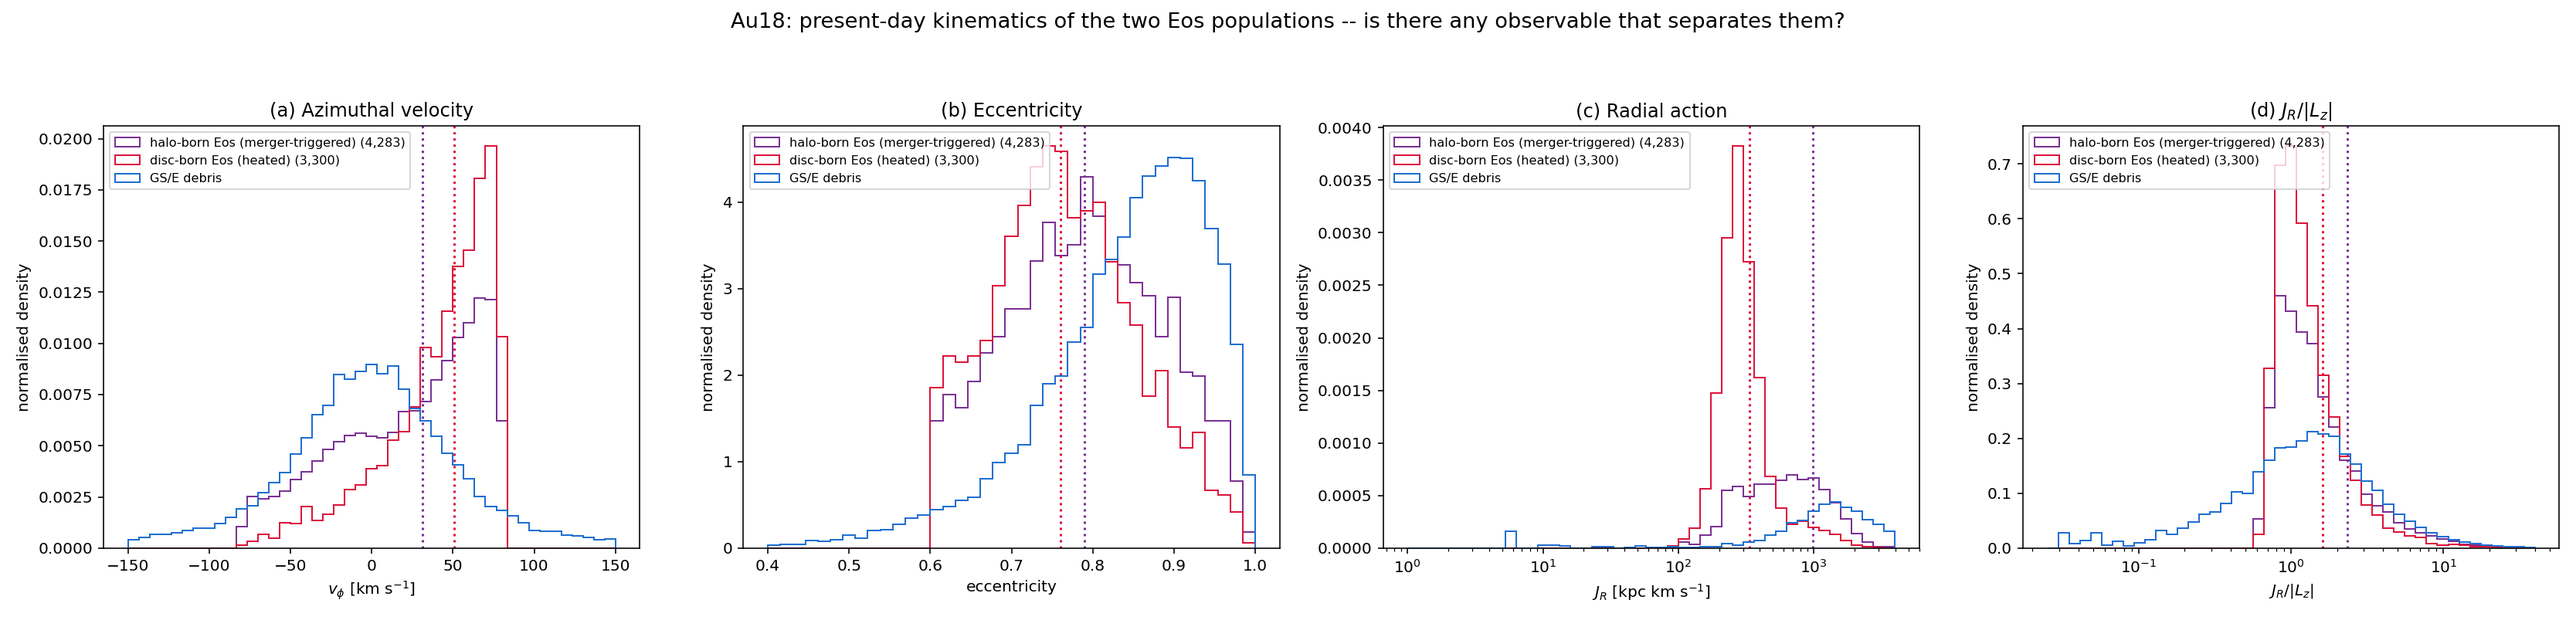
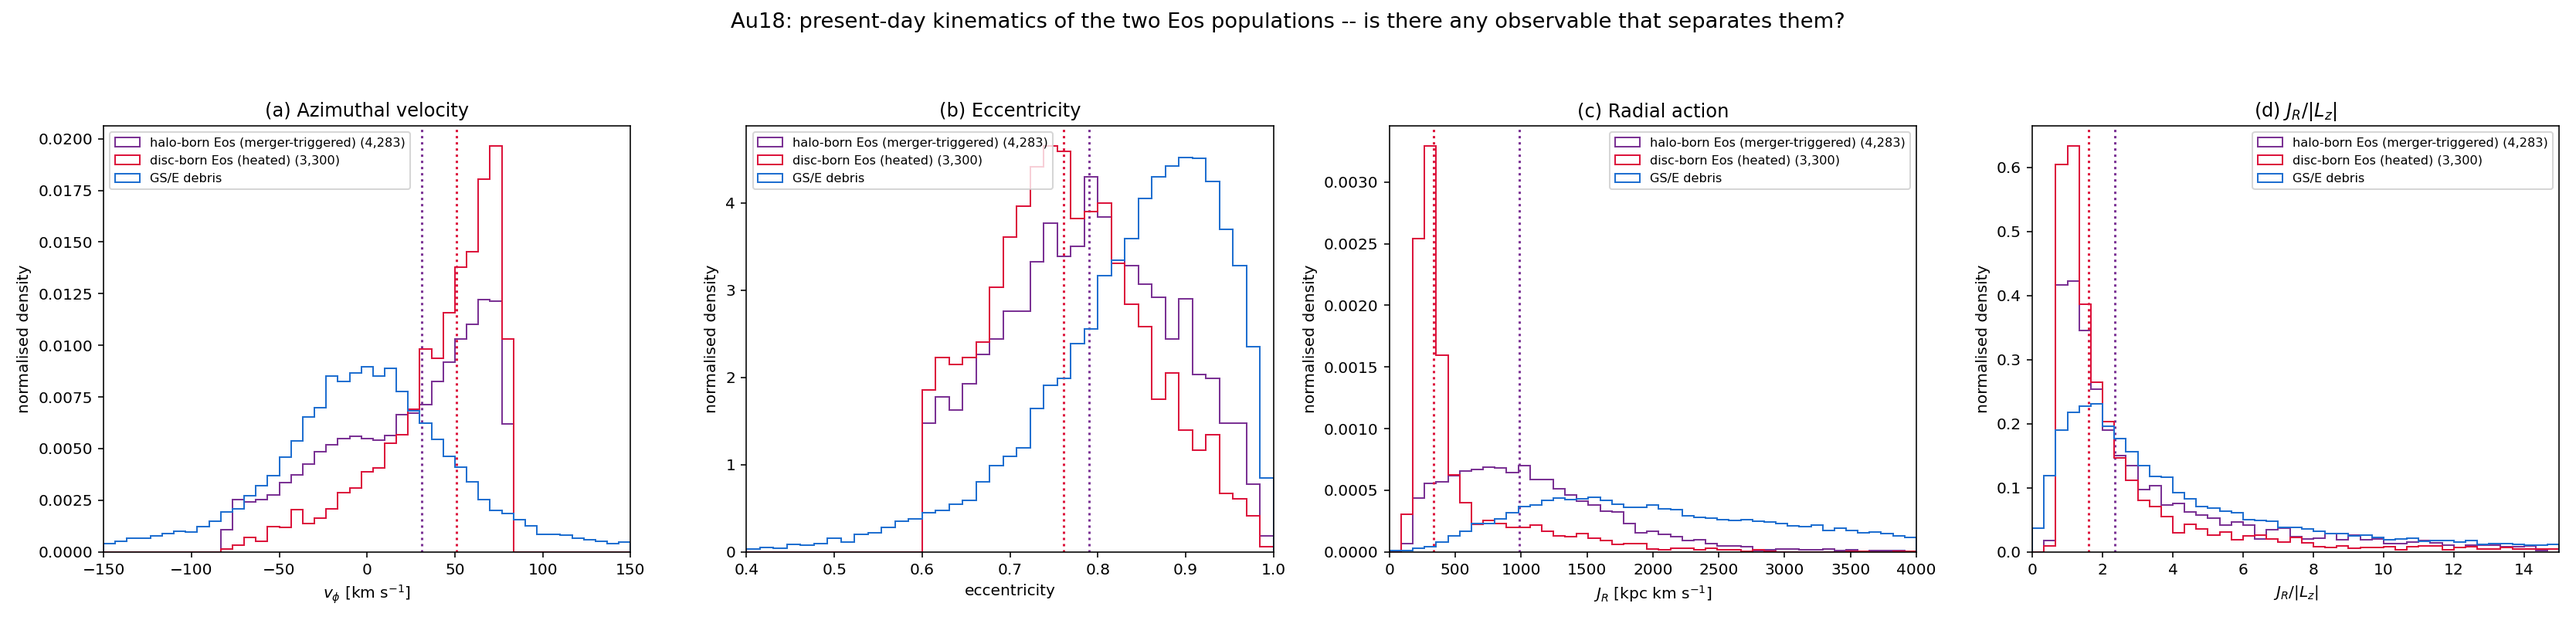
Draw the action panels on linear x-axes
J_R now spans 0-4000 kpc km/s and J_R/|L_z| spans 0-15, both linear. The script
reports what each axis cuts off, since both quantities have long tails: 0.6% of
the halo-born and 0.2% of the disc-born lie beyond the J_R edge, against 18.5% of
the GS/E debris, and 9.2% / 5.3% / 13.6% beyond the J_R/|L_z| edge.

The separation reads more directly this way. The disc-born population is a narrow
spike at J_R ~ 300 while the halo-born one is a broad hump centred near 1000, and
GS/E extends well past both.

diff --git a/auriga/ana_eos_origins_actions.py b/auriga/ana_eos_origins_actions.py
@@ -50,8 +50,8 @@ POPS = [('halo-born Eos (merger-triggered)', d['halo_born'] & fin, C_HALO),
 PANELS = [
     ('vphi', r'$v_\phi$ [km s$^{-1}$]', np.linspace(-150, 150, 46), False, '(a) Azimuthal velocity'),
     ('ecc', 'eccentricity', np.linspace(0.4, 1.0, 40), False, '(b) Eccentricity'),
-    ('Jr', r'$J_R$ [kpc km s$^{-1}$]', np.logspace(0, 3.6, 46), True, '(c) Radial action'),
-    ('JrLz', r'$J_R / |L_z|$', np.logspace(-1.6, 1.6, 46), True, '(d) $J_R/|L_z|$'),
+    ('Jr', r'$J_R$ [kpc km s$^{-1}$]', np.linspace(0, 4000, 46), False, '(c) Radial action'),
+    ('JrLz', r'$J_R / |L_z|$', np.linspace(0, 15, 46), False, '(d) $J_R/|L_z|$'),
 ]
 KEY = {'vphi': 'zvphi', 'ecc': 'ecc', 'Jr': 'Jr', 'JrLz': 'JrLz'}
 
@@ -69,9 +69,8 @@ for ax, (key, xlab, bins, logx, title) in zip(axes, PANELS):
     gv = gv[np.isfinite(gv)]
     ax.hist(gv, bins=bins, density=True, histtype='step', lw=1.7, ls='--', color=C_GSE,
             label='GS/E debris')
-    if logx:
-        ax.set_xscale('log')
-    ax.set(xlabel=xlab, ylabel='normalised density', title=title)
+    ax.set(xlabel=xlab, ylabel='normalised density', title=title,
+           xlim=(bins[0], bins[-1]))
     ax.legend(fontsize=8)
 
 fig.suptitle('Au18: present-day kinematics of the two Eos populations -- is there any '
@@ -94,4 +93,11 @@ for key, xlab, bins, logx, title in PANELS:
           f'{np.median(b):10.3f} +/- {np.std(b):7.3f} '
           f'{ks.statistic:7.3f} {ks.pvalue:10.2e} {ov:9.3f}')
 print('\n(overlap = fraction of the two distributions that coincides; 1 = identical)')
+print('\nfraction beyond the right-hand edge of each linear axis:')
+for key, xlab, bins, logx, title in PANELS:
+    frac = {lab: np.mean(v > bins[-1]) for lab, v in stats[key].items()}
+    gv = gse[key][np.isfinite(gse[key])]
+    print(f'  {key:6s} > {bins[-1]:7.1f}:  '
+          + '  '.join(f'{lab.split()[0]} {f:.3f}' for lab, f in frac.items())
+          + f'  GS/E {np.mean(gv > bins[-1]):.3f}')
 print('saved', out)
